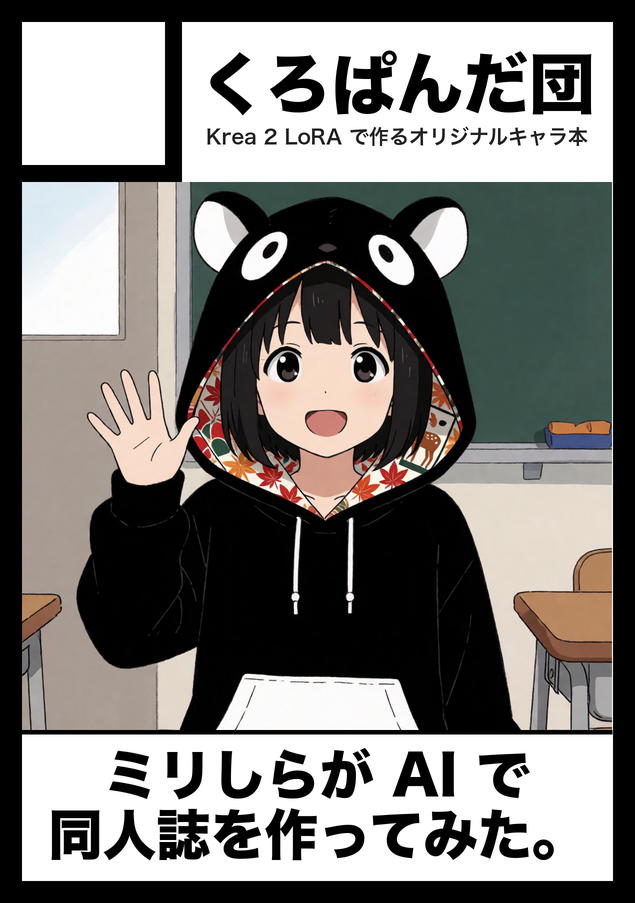
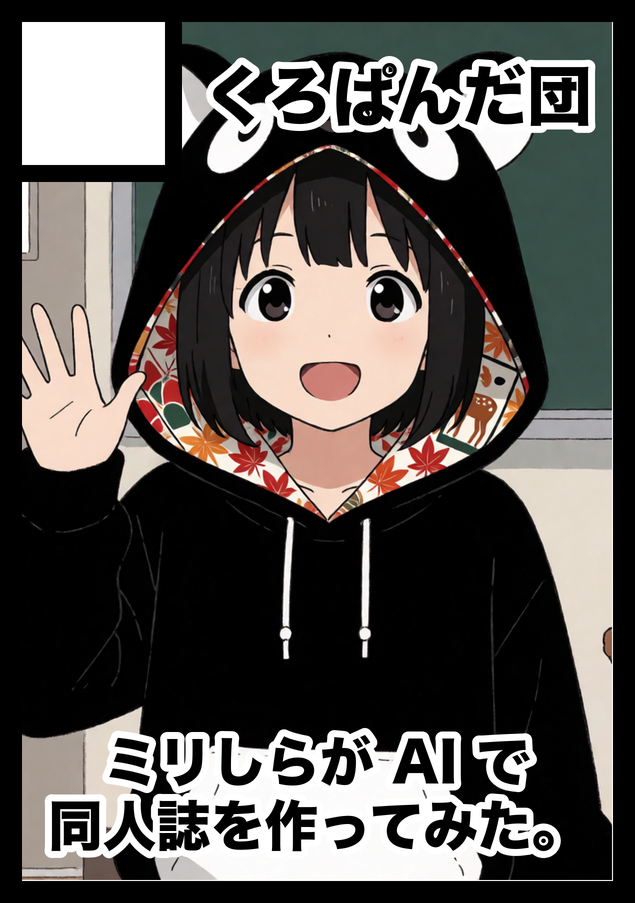
feat: サークルカットを全面絵＋白縁取り文字のレイアウトにし副題を外す
Claude-Session: https://claude.ai/code/session_013tjC8yrGb97sFhmDPDcegh

diff --git a/application/circle-cut/make_circlecut.py b/application/circle-cut/make_circlecut.py
@@ -16,13 +16,14 @@ from PIL import Image, ImageDraw, ImageFont
 
 CIRCLE = "くろぱんだ団"
 TITLE_LINES = ["ミリしらが AI で", "同人誌を作ってみた。"]
-SUB = "Krea 2 LoRA で作るオリジナルキャラ本"
 
-# テンプレート実測（635×903）: 外枠内側 22..612 × 22..880、小枠 22..163 × 22..164、
-# 小枠の右側の帯 182..612 × 22..180、本体 22..612 × 182..880
-MAIN = (22, 182, 612, 880)
+# テンプレート実測（635×903）: 外枠内側 22..612 × 22..880、小枠（スペース番号欄）22..163 × 22..164、
+# 小枠の右側の帯 182..612 × 22..180。絵は外枠内側いっぱいに敷き、小枠と L 字の黒帯はテンプレートから戻す
+FULL = (22, 22, 612, 880)
 STRIP = (182, 22, 612, 180)
+CORNER = (0, 0, 182, 182)
 S = 2  # 作業倍率
+STROKE = 7  # 文字の白縁取り（1倍時の px）
 
 
 def font(size: int, weight: str = "W8") -> ImageFont.FreeTypeFont:
@@ -60,17 +61,13 @@ def main() -> None:
     canvas = tpl.resize((W * S, H * S), Image.NEAREST)
     d = ImageDraw.Draw(canvas)
 
-    # ---- 本体: 画像 + 下部のタイトル帯 ----
-    mx0, my0, mx1, my1 = [v * S for v in MAIN]
-    band_h = 150 * S
-    img_box = (mx0, my0, mx1, my1 - band_h)
-    bw, bh = img_box[2] - img_box[0], img_box[3] - img_box[1]
-
+    # ---- 絵を外枠内側いっぱいに敷く ----
+    fx0, fy0, fx1, fy1 = [v * S for v in FULL]
+    bw, bh = fx1 - fx0, fy1 - fy0
     src = Image.open(a.image).convert("RGB")
     if a.crop:
         x0, y0, x1, y1 = [int(v) for v in a.crop.split(",")]
         src = src.crop((x0, y0, x1, y1))
-    # 枠の縦横比に合わせて中央（やや上寄り）で切り出す
     ratio = bw / bh
     sw, sh = src.size
     if sw / sh > ratio:
@@ -81,32 +78,28 @@ def main() -> None:
         nh = int(sw / ratio)
         y0 = max(0, int((sh - nh) * 0.15))
         src = src.crop((0, y0, sw, y0 + nh))
-    src = src.resize((bw, bh), Image.LANCZOS)
-    canvas.paste(src, (img_box[0], img_box[1]))
+    canvas.paste(src.resize((bw, bh), Image.LANCZOS), (fx0, fy0))
+    # 小枠（スペース番号欄）と L 字の黒帯をテンプレートから戻す
+    cx0, cy0, cx1, cy1 = [v * S for v in CORNER]
+    canvas.paste(tpl.resize((W * S, H * S), Image.NEAREST).crop((cx0, cy0, cx1, cy1)), (cx0, cy0))
 
-    # タイトル帯（白地、上に細い黒線）
-    d.rectangle((mx0, my1 - band_h, mx1, my1), fill="white")
-    d.rectangle((mx0, my1 - band_h, mx1, my1 - band_h + 4 * S), fill="black")
-    f_title = fit_font(d, max(TITLE_LINES, key=len), (mx1 - mx0) - 24 * S, 54 * S)
-    lh = f_title.size + 6 * S
-    ty = my1 - band_h + (band_h - lh * len(TITLE_LINES)) // 2 + 2 * S
+    def outlined(text, xy, f):
+        d.text(xy, text, font=f, fill="black", stroke_width=STROKE * S, stroke_fill="white")
+
+    # ---- サークル名（右上の帯の位置、絵の上に白縁取りで） ----
+    sx0, sy0, sx1, sy1 = [v * S for v in STRIP]
+    f_circle = fit_font(d, CIRCLE, (sx1 - sx0) - 2 * (12 + STROKE) * S, 66 * S)
+    cw = d.textlength(CIRCLE, font=f_circle)
+    outlined(CIRCLE, ((sx0 + sx1 - cw) / 2, sy0 + ((sy1 - sy0) - f_circle.size) // 2 - 6 * S), f_circle)
+
+    # ---- タイトル（下部、2 行、白縁取り） ----
+    f_title = fit_font(d, max(TITLE_LINES, key=len), (fx1 - fx0) - 2 * (12 + STROKE) * S, 54 * S)
+    lh = f_title.size + 10 * S
+    ty = fy1 - lh * len(TITLE_LINES) - 18 * S
     for line in TITLE_LINES:
         tw = d.textlength(line, font=f_title)
-        d.text(((mx0 + mx1 - tw) / 2, ty), line, font=f_title, fill="black")
+        outlined(line, ((fx0 + fx1 - tw) / 2, ty), f_title)
         ty += lh
-
-    # ---- 上の帯: サークル名 ----
-    sx0, sy0, sx1, sy1 = [v * S for v in STRIP]
-    d.rectangle((sx0, sy0, sx1, sy1), fill="white")
-    f_circle = fit_font(d, CIRCLE, (sx1 - sx0) - 24 * S, 66 * S)
-    f_sub = fit_font(d, SUB, (sx1 - sx0) - 24 * S, 20 * S, weight="W6", min_size=14 * S)
-    ch = f_circle.size
-    total = ch + 8 * S + f_sub.size
-    cy = sy0 + ((sy1 - sy0) - total) // 2 - 4 * S
-    cw = d.textlength(CIRCLE, font=f_circle)
-    d.text(((sx0 + sx1 - cw) / 2, cy), CIRCLE, font=f_circle, fill="black")
-    sw2 = d.textlength(SUB, font=f_sub)
-    d.text(((sx0 + sx1 - sw2) / 2, cy + ch + 10 * S), SUB, font=f_sub, fill="#222222")
 
     out = canvas.resize((W, H), Image.LANCZOS)
     Path(a.out).parent.mkdir(parents=True, exist_ok=True)
